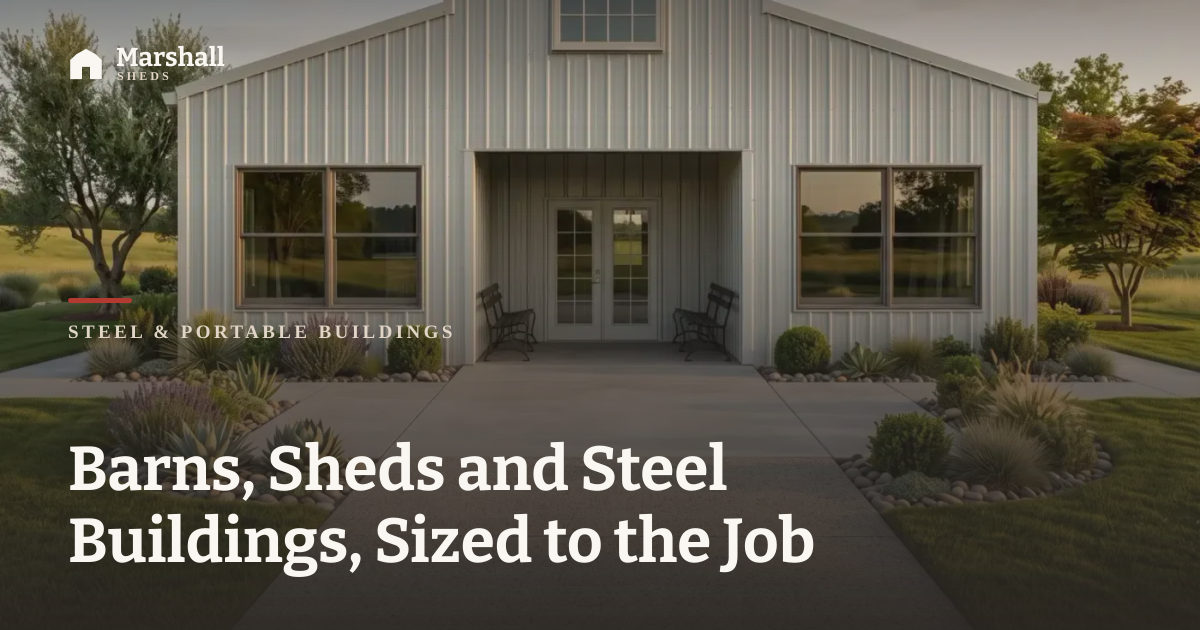
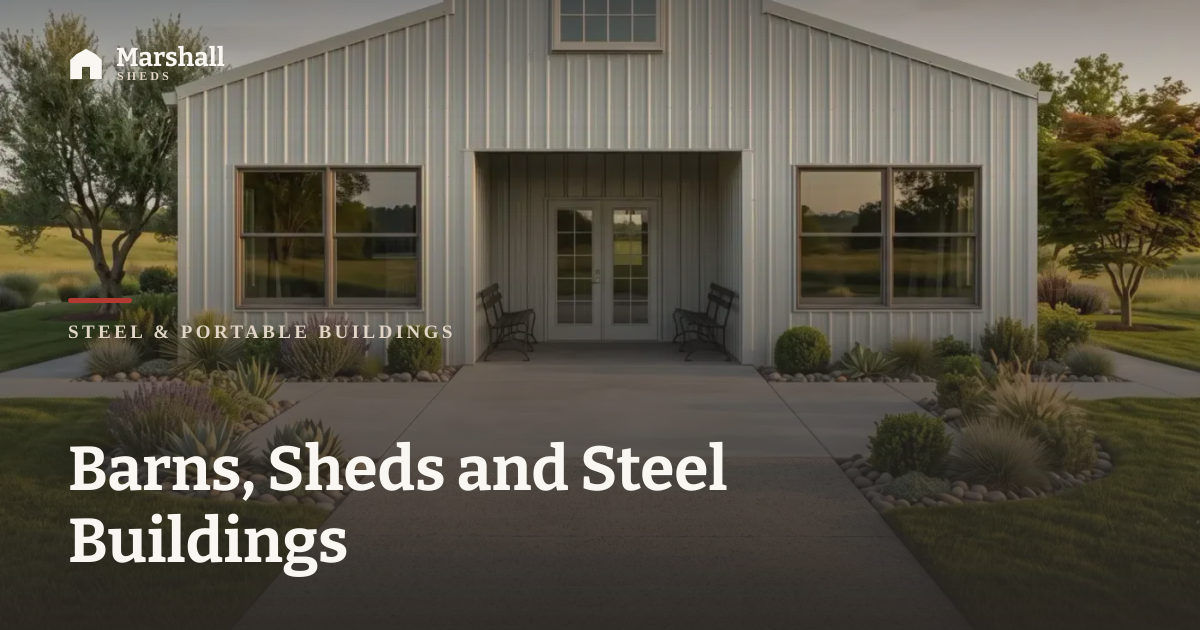
Rebrand to Fast Sheds for fastsheds.com
38 brand strings across 18 files, plus the two-span wordmark in the
header and footer that a string replace cannot see -- the name is split
across .brand__name and .brand__sub, so "Marshall" sat outside every
"Marshall Sheds" match.

Left the city alone. "Marshall" is also the town in the business address
and appears throughout locations.json, so the sweep matched the full
brand string and the slug only, never the bare word. Address still reads
360 PR 1031, Marshall, TX 75672.

astro.config now falls back to https://fastsheds.com; PUBLIC_SITE_URL
still overrides it, so pointing at a preview URL stays an env var rather
than a commit.

Regenerated all 93 OG cards -- they carried the old wordmark baked in,
and a link preview showing a different brand than the page is worse than
no preview.

Renamed the build brief, which still had the old name in its filename.

Verified: 159 pages, 0 broken links across 8,380 checked, 0 broken
assets across 1,304, every page carries an og:image that exists,
metadata check clean, and the inventory filter, quote form and FAQ
search all pass in Chromium.

Still blank by design: phone, email and form endpoint, each behind its
pending flag, and indexable stays false until launch.

Claude-Session: https://claude.ai/code/session_01XEkSLo716CtUuz8NJsorGf

Changed region(s): [[0.2775, 0.8143, 0.6783, 0.9048]]

diff --git a/src/pages/sitemap.xml.ts b/src/pages/sitemap.xml.ts
@@ -12,7 +12,7 @@ import locations from '../data/locations.json';
  */
 
 // Read from `site` in astro.config.mjs so the domain lives in exactly one place.
-const SITE = (import.meta.env.SITE ?? 'https://marshall-sheds.vercel.app').replace(/\/$/, '');
+const SITE = (import.meta.env.SITE ?? 'https://fast-sheds.vercel.app').replace(/\/$/, '');
 
 type Entry = { path: string; priority: number; changefreq: string };
 

diff --git a/src/pages/robots.txt.ts b/src/pages/robots.txt.ts
@@ -9,7 +9,7 @@ import site from '../data/site.json';
  *
  * The sitemap is withheld until launch so nothing actively invites indexing.
  */
-const SITE = (import.meta.env.SITE ?? 'https://marshall-sheds.vercel.app').replace(/\/$/, '');
+const SITE = (import.meta.env.SITE ?? 'https://fast-sheds.vercel.app').replace(/\/$/, '');
 
 export const GET: APIRoute = () => {
   const body = site.indexable

diff --git a/src/styles/global.css b/src/styles/global.css
@@ -1,5 +1,5 @@
 /* ============================================================
-   Marshall Sheds — design tokens
+   Fast Sheds — design tokens
    Warm palette: bone ground, warm charcoal text, barn-red accent.
    One light theme only. A warm ground and a serif display face are
    what carry the identity here; do not swap them for a cool grey.

diff --git a/BUILD-BRIEF.md b/BUILD-BRIEF.md
@@ -1,8 +1,8 @@
-# Marshall Sheds — build brief
+# Fast Sheds — build brief
 
 Hand this file to a fresh Claude Code session in the new project box.
 
-**The job:** clone the Any Size site in full, rebrand it to Marshall Sheds, give
+**The job:** clone the Any Size site in full, rebrand it to Fast Sheds, give
 it a visibly different interface, and stand it up on its own domain as a
 completely separate operation. Same catalog, same photography, same
 architecture. Nothing links the two sites.
@@ -26,7 +26,7 @@ suspended. This is not a ranking effect to be optimised around — the listing
 stops existing. Google Voice issues a free second number in minutes. Sharing the
 building is fine; sharing the phone is not.
 
-Without its own number Marshall Sheds still works as a website, but it cannot
+Without its own number Fast Sheds still works as a website, but it cannot
 hold a Business Profile: no map pack, no "near me" results, no reviews.
 
 **2. Identical copy on two sites competes with itself.** Google picks one URL
@@ -52,10 +52,10 @@ Boxes. 75673 does not exist here and has been mistyped once already.
 ## 1. Get the code
 
 ```bash
-git clone https://github.com/farmadvisorar-ux/It-s-2026.git marshall-sheds
-cd marshall-sheds
+git clone https://github.com/farmadvisorar-ux/It-s-2026.git fast-sheds
+cd fast-sheds
 rm -rf .git dist
-git init && git add -A && git commit -m "Fork Any Size codebase as Marshall Sheds"
+git init && git add -A && git commit -m "Fork Any Size codebase as Fast Sheds"
 npm install
 npm run dev          # http://localhost:4321
 npm run build        # must report 160 pages before you change anything
@@ -74,7 +74,7 @@ schema and the OG tags together.
 
 ```json
 {
-  "name": "Marshall Sheds",
+  "name": "Fast Sheds",
   "tagline": "<new tagline>",
   "description": "<new description>",
   "phone": "(903) XXX-XXXX",
@@ -96,7 +96,7 @@ including the schema. Flipping them is the last step of the project.
 
 | File | Change |
 |---|---|
-| `package.json` | `"name": "marshall-sheds"` |
+| `package.json` | `"name": "fast-sheds"` |
 | `astro.config.mjs` | `site: 'https://<newdomain>'` |
 | `public/CNAME` | new domain, one line, no protocol |
 | `src/layouts/Base.astro` | the `new URL('https://anysize.shop')` origin fallback |
@@ -164,7 +164,7 @@ letter-spacing. 4px and 8px radii. Sticky translucent header carrying two
 six-column mega menus. Card grids on every index page. 1200px measure.
 Automatic dark mode. It reads industrial, dense, catalog-like.
 
-### Direction for Marshall Sheds
+### Direction for Fast Sheds
 
 **Palette — warm, not cool.** Bone or cream ground (`#faf7f2`), warm charcoal
 text (`#2b2622`), barn-red or deep-forest accent. Warm-versus-cool ground reads

diff --git a/README.md b/README.md
@@ -1,6 +1,6 @@
-# Marshall Sheds
+# Fast Sheds
 
-Marketing and catalog site for Marshall Sheds, an independent authorized dealer
+Marketing and catalog site for Fast Sheds, an independent authorized dealer
 carrying two lines:
 
 - **Engineered steel buildings** — bolt-together kits, engineered per site, shipped nationwide.
@@ -147,7 +147,7 @@ Every downloaded image was reviewed on a contact sheet before use. These were
 
 - **Four photos of identifiable people** — three of the same man in a blazer
   with a logo lapel pin, plus one selfie. Publishing them here implies those
-  people represent Marshall Sheds.
+  people represent Fast Sheds.
 - **Two photos carrying another company's identity** — service vans liveried
   for an unrelated firm, and a building with "HARRISON DISTRIBUTING" signage
   across the front, which would imply a customer relationship that does not
@@ -191,7 +191,7 @@ written for this site. Beyond the copyright question, duplicate text is actively
 harmful for SEO: search engines dedupe it, and a newer dealer domain loses that
 comparison to the manufacturer's established one every time.
 
-**The site does not claim to be the manufacturer.** Marshall Sheds is an
+**The site does not claim to be the manufacturer.** Fast Sheds is an
 independent authorized dealer. Copy consistently says "our manufacturing partner" rather than "we
 manufacture", because the latter would be inaccurate. Keep that distinction if you
 add pages.
